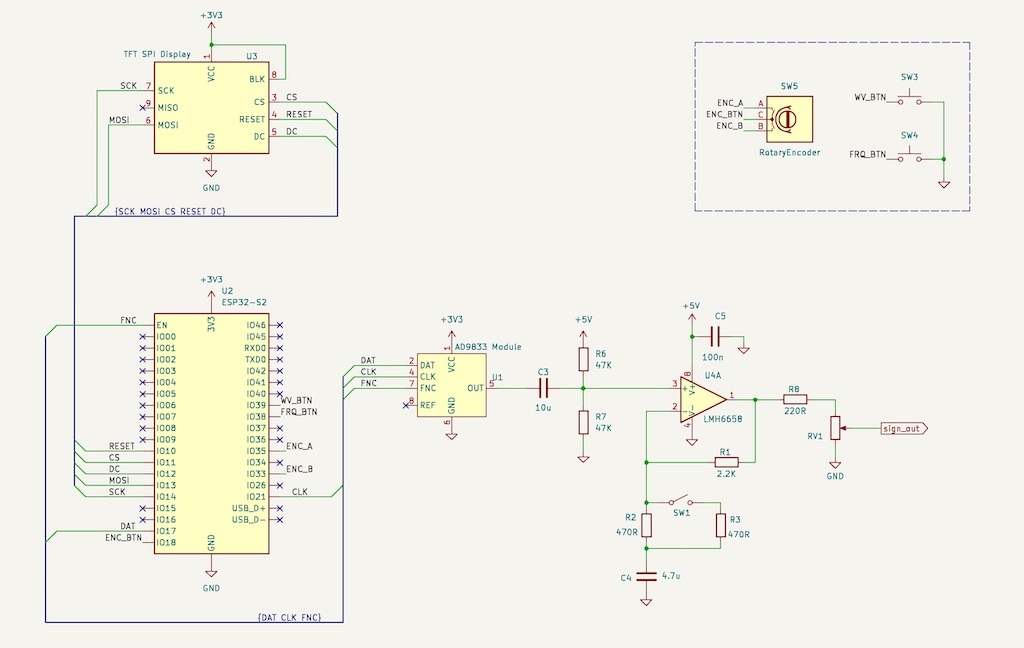
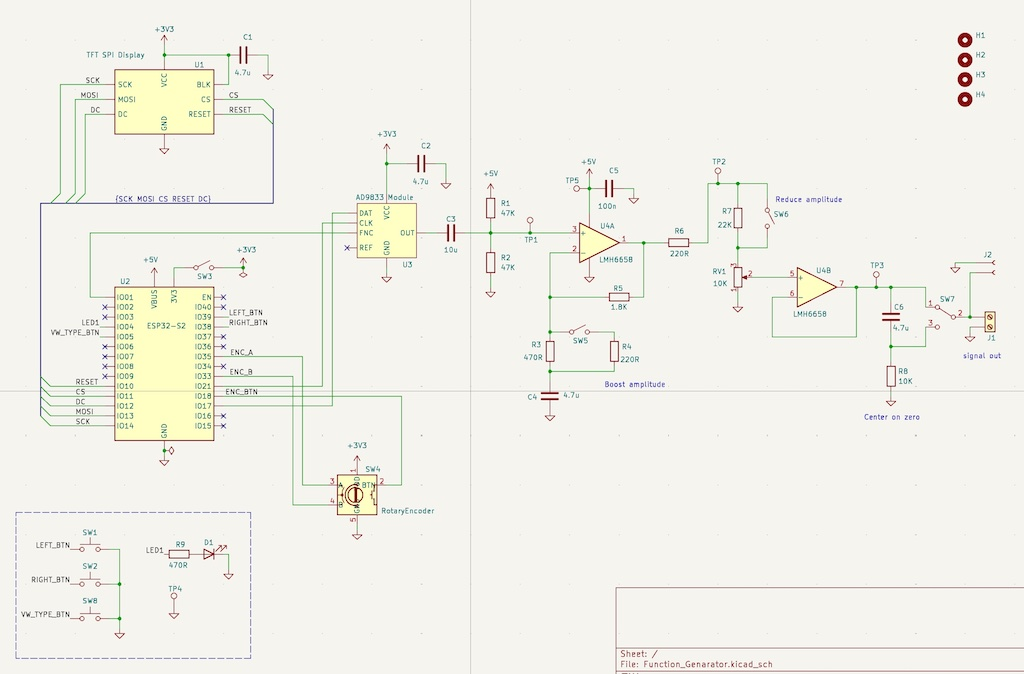
added new pcb and sch

diff --git a/README.md b/README.md
@@ -32,5 +32,8 @@ And the schematic so far:
 
 ![Function generator](/img/func_gen_sch.jpg)
 
-I will create a PCB and box with all the connectors. I still have to improve the user interface and decide the final layout.
-Probably I will change the MCU by the ESP32-C3 module, depending on the number of GPIO pins needed.
+
+![Function generator](/img/pcb.jpg)
+
+I still have to improve the user interface and decide the final layout.
+Probably I will change the MCU by the ESP32-C3 module or even by some Attiny new series MCU, depending on the number of GPIO pins needed.
